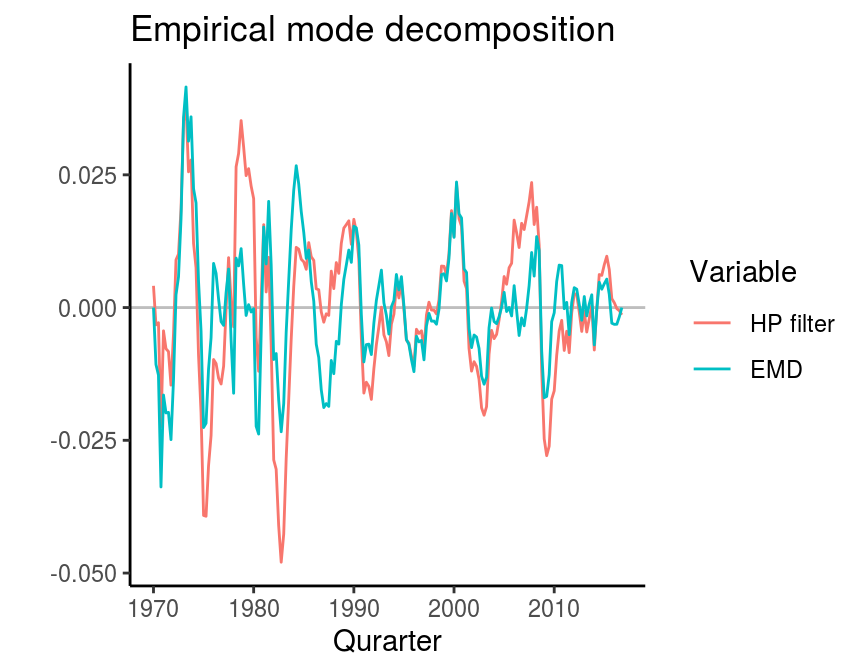
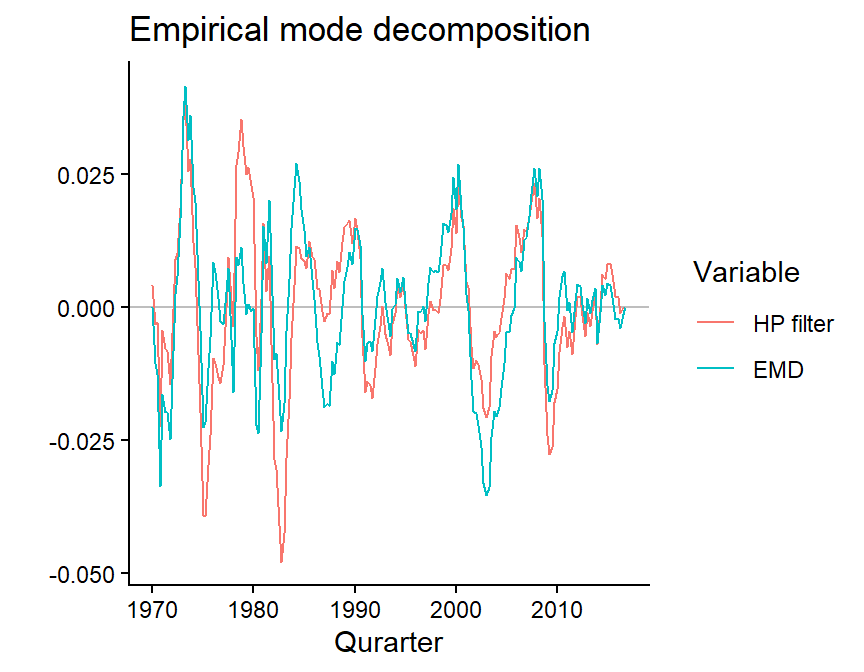
Download the GDP series for the cycle extraction article from FRED
Quandl no longer serves the FRED data sets, so the article could not be
knitted any more. FRED's CSV download needs no API key, which also takes
the committed Quandl key out of the source. Figures are re-knitted
against the current vintage of GDPC1.

diff --git a/content/timeseries/economic-cycle-extraction.html b/content/timeseries/economic-cycle-extraction.html
@@ -20,18 +20,18 @@ description: "This post presents methods that can be used to decompose economic 
 <p>The analysis of economic time series often requires the extraction of their cyclical components. This post presents some methods, which can be used to decompose time series into their different components. It is based on the chapter on business cycles by Stock and Watson (1999) in the Handbook of Macroeconomics, but also presents some more recent methods like Hamilton’s (2018) alternative to the HP-filter, wavelet filtering and empirical mode decomposition.</p>
 <div id="data" class="section level3">
 <h3>Data</h3>
-<p>I use quarterly data of US log real GDP from 1970Q1 to 2016Q4 for the illustration of the different methods. The time series is obtained via Quandl and its respectiv R-package. The original series can be downloaded from the <a href="https://fred.stlouisfed.org/series/GDPC1">FRED database</a>.</p>
-<pre class="r"><code># Load packages for data download and transformation
+<p>I use quarterly data of US log real GDP from 1970Q1 to 2016Q4 for the illustration of the different methods. The series is downloaded directly from the <a href="https://fred.stlouisfed.org/series/GDPC1">FRED database</a> of the Federal Reserve Bank of St. Louis, which offers each series as a CSV file that can be read without an API key. Note that FRED always returns the latest vintage of the data, so revisions of the national accounts can change the figures below slightly.</p>
+<pre class="r"><code># Load packages for data transformation
 library(dplyr)
-library(Quandl)
 library(tidyr)
 
 # Download data
-data &lt;- Quandl(&quot;FRED/GDPC1&quot;, order = &quot;asc&quot;,
-               start_date = &quot;1970-01-01&quot;, end_date = &quot;2016-10-01&quot;)  %&gt;%
-  rename(date = Date,
-         gdp = Value) %&gt;%
-  mutate(lgdp = log(gdp)) # Take logs</code></pre>
+url &lt;- &quot;https://fred.stlouisfed.org/graph/fredgraph.csv?id=GDPC1&amp;cosd=1970-01-01&amp;coed=2016-10-01&quot;
+data &lt;- read.csv(url) %&gt;%
+  rename(date = observation_date,
+         gdp = GDPC1) %&gt;%
+  mutate(date = as.Date(date),
+         lgdp = log(gdp)) # Take logs</code></pre>
 <p>To get an intuition about what it means to extract the cyclical component of a time series, look at the development of log real GDP over time in the following figure.</p>
 <pre class="r"><code>library(ggplot2)
 
@@ -39,8 +39,8 @@ ggplot(data, aes(x = date, y = lgdp)) +
   geom_line() +
   theme_classic() +
   labs(title = &quot;Log real US GDP&quot;, x = &quot;Quarter&quot;, y = &quot;&quot;,
-       caption = &quot;Source: U.S. Bureau of Economic Analysis (GDPC1).\nRetrieved via Quandl.com.&quot;)</code></pre>
-<p><img src="/timeseries/economic-cycle-extraction_files/figure-html/raw-series-1.png" width="432" /></p>
+       caption = &quot;Source: U.S. Bureau of Economic Analysis (GDPC1).\nRetrieved from FRED.&quot;)</code></pre>
+<p><img src="/timeseries/economic-cycle-extraction_files/figure-html/raw-series-1.png" alt="" width="432" /></p>
 <p>There is a clear increasing trend in the data, which appears to become gradually smaller up to the present. Additionally, the series seems to fluctuate around this trend in a more or less regular manner. There are relatively long lasting deviations from the trend, which could be considered to be cyclical fluctuations. The identification of those cyclical components is an important question in economics, because it might have serious implications for economic policy.</p>
 </div>
 <div id="deviation-from-a-linear-trend" class="section level2">
@@ -69,7 +69,7 @@ ggplot(temp, aes(x = date, y = value, colour = Variable)) +
   theme_classic() +
   labs(title = &quot;Residuals of a linear trend estimation&quot;,
        x = &quot;Quarter&quot;, y = &quot;&quot;)</code></pre>
-<p><img src="/timeseries/economic-cycle-extraction_files/figure-html/trend-1.png" width="432" /></p>
+<p><img src="/timeseries/economic-cycle-extraction_files/figure-html/trend-1.png" alt="" width="432" /></p>
 <p>This approach is relatively controversial, since it assumes that there is a constant, linear time trend. As we have seen above, this is not very likely given the steady decrease of the trend’s growth rate over time. However, it is still possible to assume a different functional form of the time trend, e.g. a quadratic term, to account for the specifities of a trend. A further disadvantage of this method is that it does only exlude the trend, but not the noise, i.e. the very small fluctuations in the series.</p>
 </div>
 <div id="hodrick-prescott-filter" class="section level2">
@@ -103,7 +103,7 @@ ggplot(temp, aes(x = date, y = value, colour = Variable)) +
   theme_classic() +
   labs(title = &quot;HP filter&quot;,
        x = &quot;Qurarter&quot;, y = &quot;&quot;)</code></pre>
-<p><img src="/timeseries/economic-cycle-extraction_files/figure-html/hodrick%20prescott-1.png" width="432" /></p>
+<p><img src="/timeseries/economic-cycle-extraction_files/figure-html/hodrick%20prescott-1.png" alt="" width="432" /></p>
 <p>Although widely used in economics, the HP filter is also heavily criticised for some features. See, for example, a good overview in a <a href="http://bruegel.org/2012/07/blogs-review-hp-filters-and-business-cycles/" target="_blank">Bruegel blog post</a> by Jérémie Cohen-Setton and Yury Yatsynovich and <a href="https://doi.org/10.1162/rest_a_00706" target="_blank">here</a> for the working paper version of a critique by James Hamilton.</p>
 </div>
 <div id="a-regression-based-alternative-to-the-hp-filter" class="section level2">
@@ -141,7 +141,7 @@ ggplot(temp, aes(x = date, y = value, colour = Variable)) +
   labs(title = &quot;Hamilton&#39;s alternative to the HP filter&quot;,
        x = &quot;Qurarter&quot;, y = &quot;&quot;, 
        caption = &quot;Source: Hamilton (2018).&quot;)</code></pre>
-<p><img src="/timeseries/economic-cycle-extraction_files/figure-html/hp%20augmented-1.png" width="432" /></p>
+<p><img src="/timeseries/economic-cycle-extraction_files/figure-html/hp%20augmented-1.png" alt="" width="432" /></p>
 </div>
 <div id="baxter-king-filter" class="section level2">
 <h2>Baxter King filter</h2>
@@ -169,7 +169,7 @@ ggplot(temp, aes(x = date, y = value, colour = Variable)) +
   theme_classic() +
   labs(title = &quot;Baxter-King filter&quot;,
        x = &quot;Qurarter&quot;, y = &quot;&quot;)</code></pre>
-<p><img src="/timeseries/economic-cycle-extraction_files/figure-html/baxter%20king-1.png" width="432" /></p>
+<p><img src="/timeseries/economic-cycle-extraction_files/figure-html/baxter%20king-1.png" alt="" width="432" /></p>
 </div>
 <div id="wavelet-filter" class="section level2">
 <h2>Wavelet filter</h2>
@@ -203,7 +203,7 @@ ggplot(temp, aes(x = date, y = value)) +
   facet_wrap( ~ imf, scales = &quot;free&quot;) +
   labs(title = &quot;Wavelets&quot;,
        x = &quot;Quarter&quot;, y = &quot;&quot;)</code></pre>
-<p><img src="/timeseries/economic-cycle-extraction_files/figure-html/wavelet-1.png" width="576" /></p>
+<p><img src="/timeseries/economic-cycle-extraction_files/figure-html/wavelet-1.png" alt="" width="576" /></p>
 <p>The function gives multiple series, which have to be cumulated with <code>cumsum</code> to translate them back into the level data. Maybe not surprisingly, the wavelet filter yields a similar result as the BK filter, since the upper bound of cycle periods is equal in both and the lower bound differs only by two - <span class="math inline">\(2^3 = 8\)</span> compared to the <span class="math inline">\(6\)</span> in the BK filter.</p>
 <pre class="r"><code>data &lt;- data %&gt;%
   mutate(wave = c(NA, cumsum(wave_gdp$D3 + wave_gdp$D4 + wave_gdp$D5)))
@@ -221,11 +221,11 @@ ggplot(temp, aes(x = date, y = value, colour = Variable)) +
   theme_classic() +
   labs(title = &quot;Wavelets&quot;,
        x = &quot;Quarter&quot;, y = &quot;&quot;)</code></pre>
-<p><img src="/timeseries/economic-cycle-extraction_files/figure-html/wavelet%20plot-1.png" width="432" /></p>
+<p><img src="/timeseries/economic-cycle-extraction_files/figure-html/wavelet%20plot-1.png" alt="" width="432" /></p>
 </div>
 <div id="empirical-mode-decomposition-emd" class="section level2">
 <h2>Empirical mode decomposition (EMD)</h2>
-<p>Kozic and Sever (2014) propose empirical mode decomposition as a further method of business cycle extraction as presented in Huang et al. (1998). An implementation of the method comes with the <code>emd</code> function in the <em>EMD</em> package. It requires a time series, which can be both stationary or non-stationary and a <code>boundary</code> condition. The basic idea of EMD is similar to wavelets. It decomposes a time series into sub-series, which are called <em>intrinsic mode functions</em> (IMF).</p>
+<p>Kozic and Sever (2014) propose empirical mode decomposition as a further method of business cycle extraction as presented in Huang et al. (1998). An implementation of the method comes with the <code>emd</code> function in the <em>EMD</em> package. It requires a time series, which can be both stationary or non-stationary and a <code>boundary</code> condition. The basic idea of EMD is similar to wavelets. It decomposes a time series into sub-series, which are called <em>intrinsic mode functions</em> (IMF).</p>
 <pre class="r"><code>library(EMD)
 
 y &lt;- na.omit(data$lgdp)
@@ -248,7 +248,7 @@ ggplot(temp, aes(x = date, y = value)) +
   facet_wrap( ~ imf) +
   labs(title = &quot;Empirical mode decomposition&quot;,
        x = &quot;Quarter&quot;, y = &quot;&quot;)</code></pre>
-<p><img src="/timeseries/economic-cycle-extraction_files/figure-html/emd-1.png" width="432" /></p>
+<p><img src="/timeseries/economic-cycle-extraction_files/figure-html/emd-1.png" alt="" width="432" /></p>
 <pre class="r"><code># Add EMD output to main data frame
 data &lt;- data %&gt;%
   mutate(emd = lgdp - emd_gdp$residue)
@@ -268,12 +268,12 @@ ggplot(temp, aes(x = date, y = value, colour = Variable)) +
   theme_classic() +
   labs(title = &quot;Empirical mode decomposition&quot;,
        x = &quot;Qurarter&quot;, y = &quot;&quot;)</code></pre>
-<p><img src="/timeseries/economic-cycle-extraction_files/figure-html/emd%20plot-1.png" width="432" /></p>
-<p>Note that the first and last elements are equal to zero. This is because we used the argument <code>boundary = &quot;none&quot;</code>. If we used a different specification, the function would eliminate this boundary effect by extending the original series.</p>
+<p><img src="/timeseries/economic-cycle-extraction_files/figure-html/emd%20plot-1.png" alt="" width="432" /></p>
+<p>Note that the first and last elements are equal to zero. This is because we used the argument <code>boundary = "none"</code>. If we used a different specification, the function would eliminate this boundary effect by extending the original series.</p>
 </div>
 <div id="grant-a.-l.-chan-j.-c.-c.-2017" class="section level2">
 <h2>Grant, A. L., &amp; Chan, J. C. C. (2017)</h2>
-<p>The followning code follows the description in Chan et al. (2019). The MATLAB code can be found on <a href="https://web.ics.purdue.edu/~jltobias/second_edition/Chapter18/chapt18.html" target="_blank">the textbook’s website</a>.</p>
+<p>The followning code follows the description in Chan et al. (2019). The MATLAB code can be found on <a href="https://web.ics.purdue.edu/~jltobias/second_edition/Chapter18/chapt18.html" target="_blank">the textbook’s website</a>.</p>
 <p>Priors</p>
 <pre class="r"><code># Rescaled data
 y &lt;- na.omit(data$lgdp) * 100
@@ -401,7 +401,7 @@ ggplot(temp, aes(x = date, y = value, colour = Variable)) +
   theme_classic() +
   labs(title = &quot;Grant &amp; Chan (2017)&quot;,
        x = &quot;Qurarter&quot;, y = &quot;&quot;)</code></pre>
-<p><img src="/timeseries/economic-cycle-extraction_files/figure-html/unnamed-chunk-4-1.png" width="672" /></p>
+<p><img src="/timeseries/economic-cycle-extraction_files/figure-html/unnamed-chunk-4-1.png" alt="" width="672" /></p>
 </div>
 <div id="references" class="section level2">
 <h2>References</h2>
@@ -412,7 +412,6 @@ ggplot(temp, aes(x = date, y = value, colour = Variable)) +
 <p>Hamilton, J. D. (2018), Why you should never use the Hodrick-Prescott filter. <em>Review of Economics and Statistics, 100</em>(5), 831-843. <a href="https://doi.org/10.1162/rest_a_00706">https://doi.org/10.1162/rest_a_00706</a></p>
 <p>Kim, D. and Oh, H.-S. (2014). EMD: Empirical Mode Decomposition and Hilbert Spectral Analysis. R package version 1.5.7.</p>
 <p>Kožić, I., &amp; Sever, I. (2014). Measuring business cycles: Empirical Mode Decomposition of economic time series. <em>Economics Letters, 123</em>(3), 287–290. <a href="https://doi.org/10.1016/j.econlet.2014.03.009">https://doi.org/10.1016/j.econlet.2014.03.009</a></p>
-<p>McTaggart, R., Daroczi, G., &amp; Leung, C. (2018). Quandl: API Wrapper for Quandl.com. R package version 2.9.1. <a href="https://CRAN.R-project.org/package=Quandl">https://CRAN.R-project.org/package=Quandl</a></p>
 <p>Shea, J. M. (2018). neverhpfilter: A Better Alternative to the Hodrick-Prescott Filter. R package version 0.2-0. <a href="https://CRAN.R-project.org/package=neverhpfilter">https://CRAN.R-project.org/package=neverhpfilter</a></p>
 <p>Stock, J. H., &amp; Watson, M. W. (1999). Business Cycle Fluctuations in US Macroeconomic Time Series. In J. B. Taylor &amp; M. Woodford (Eds.), Handbook of Macroeconomics. Handbook of Macroeconomics (pp. 3–64). Elsevier.</p>
 <p>Whitcher, B. (2015). waveslim: Basic wavelet routines for one-, two- and three-dimensional signal processing. R package version 1.7.5. <a href="https://CRAN.R-project.org/package=waveslim">https://CRAN.R-project.org/package=waveslim</a></p>
